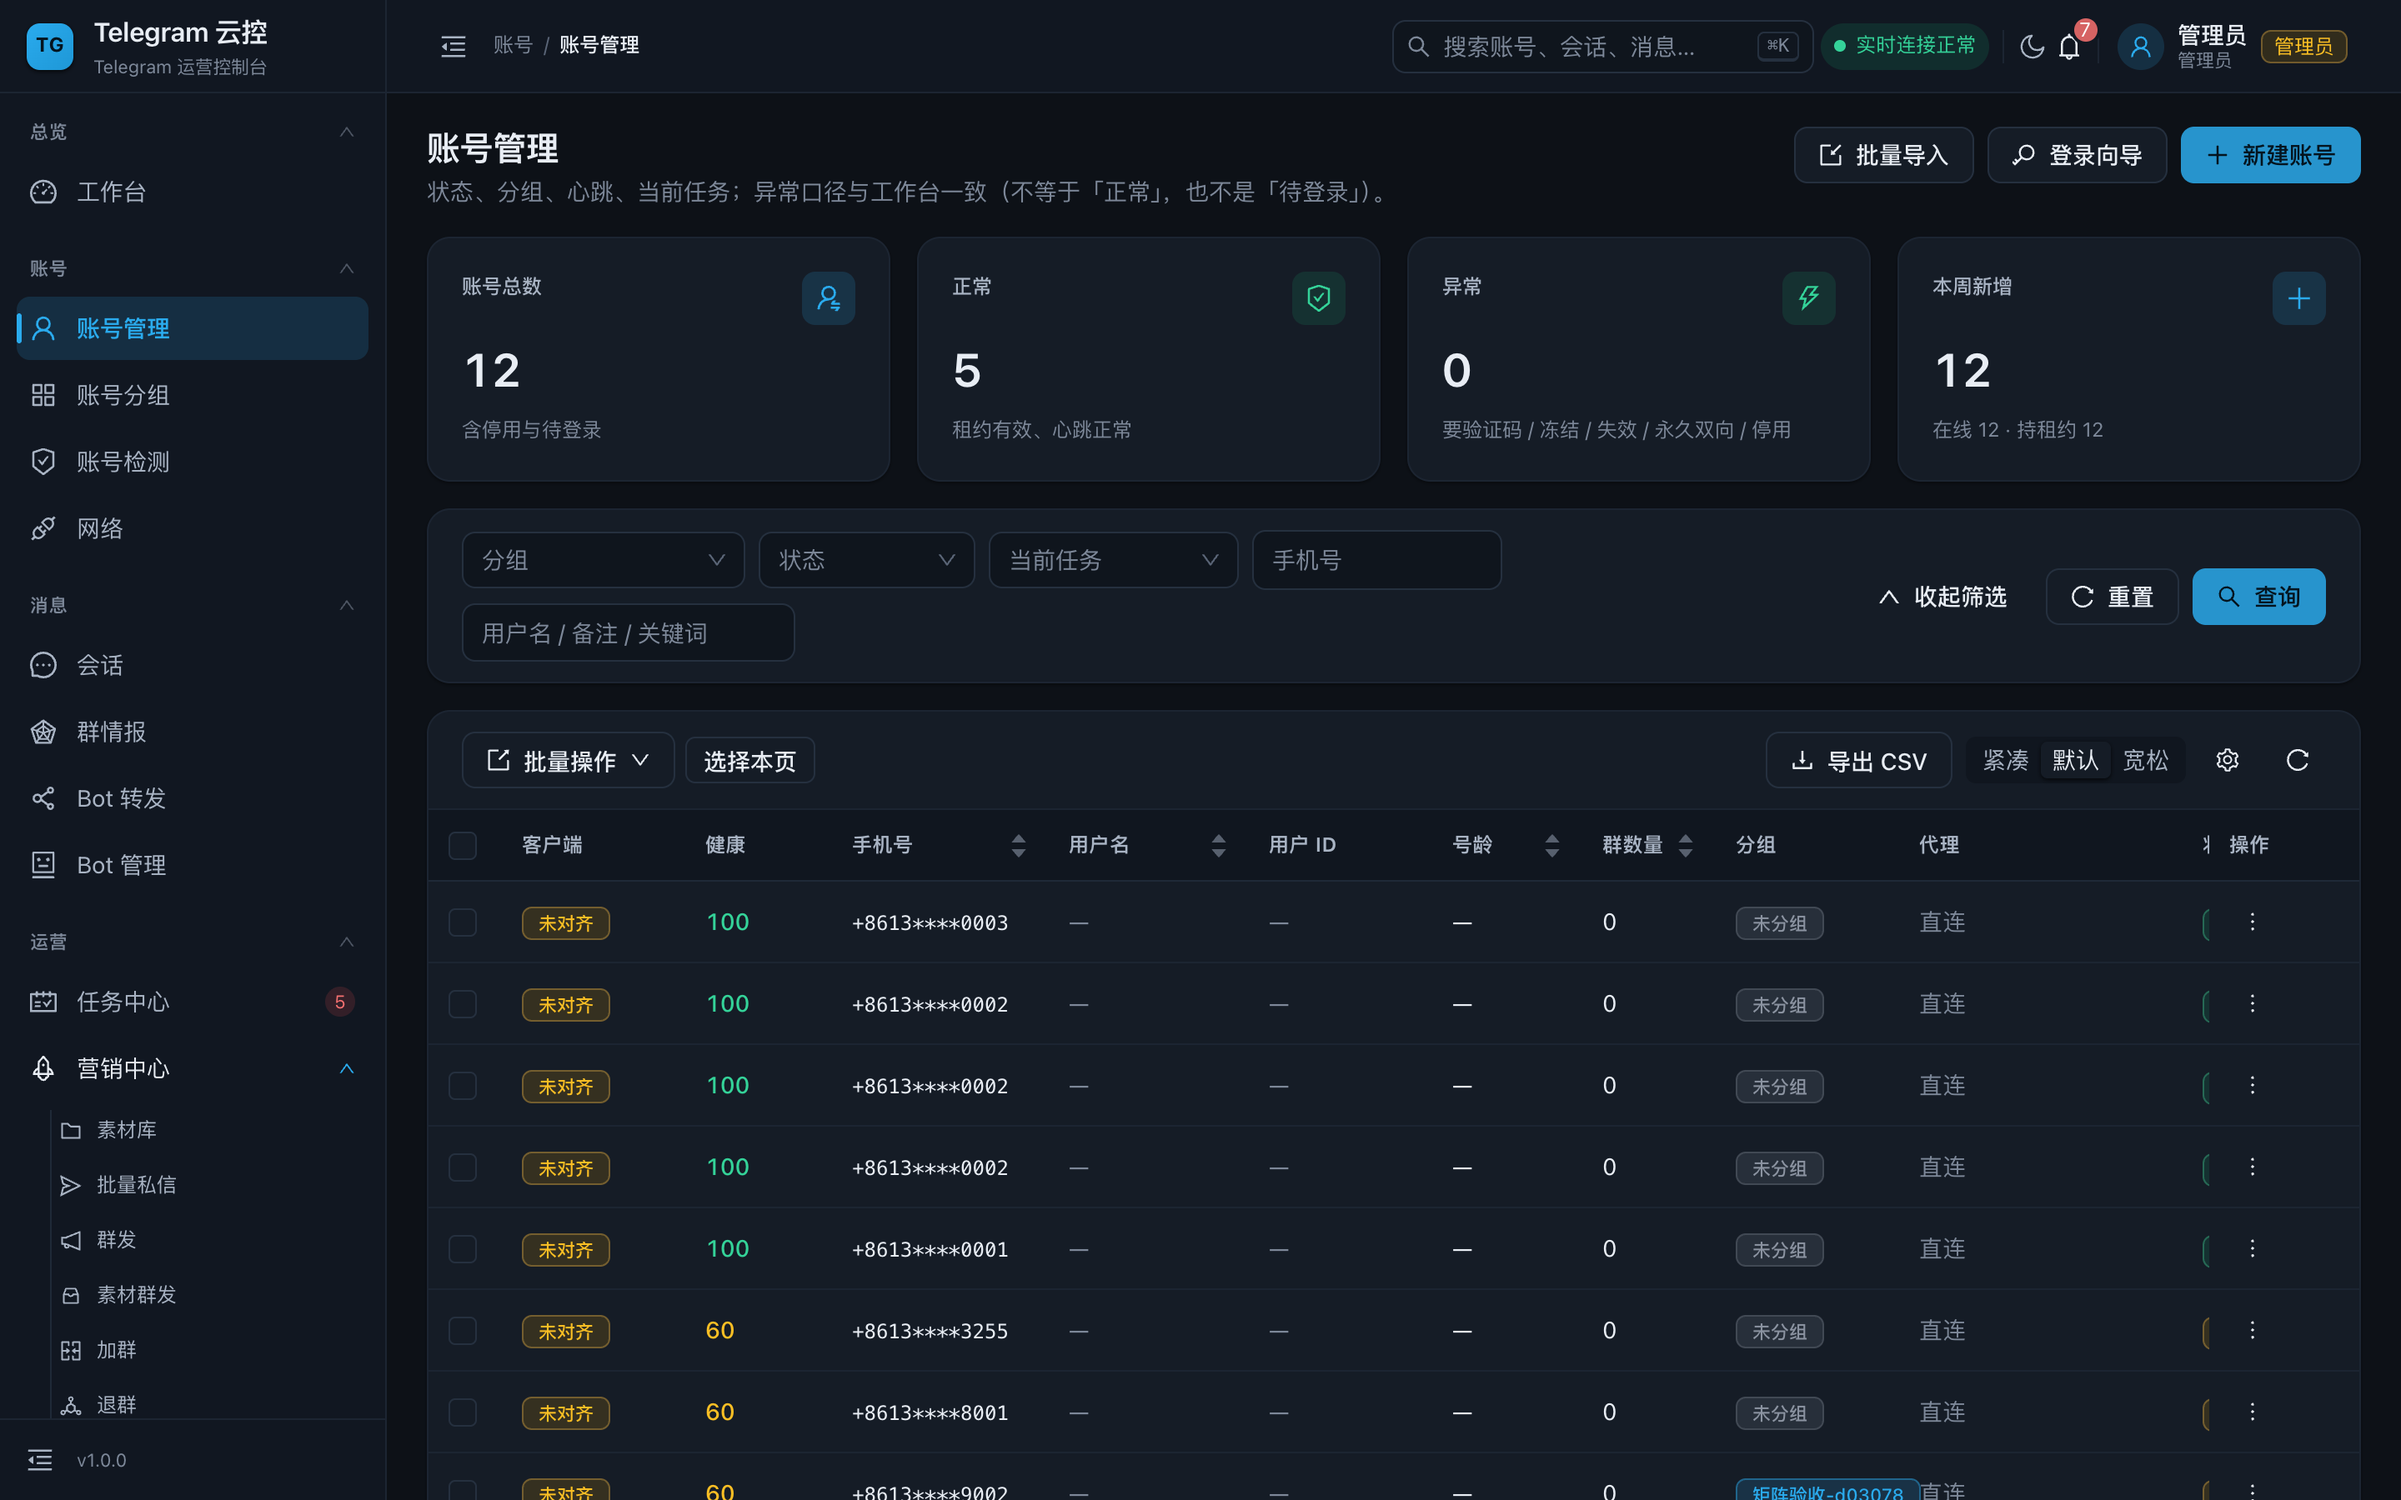
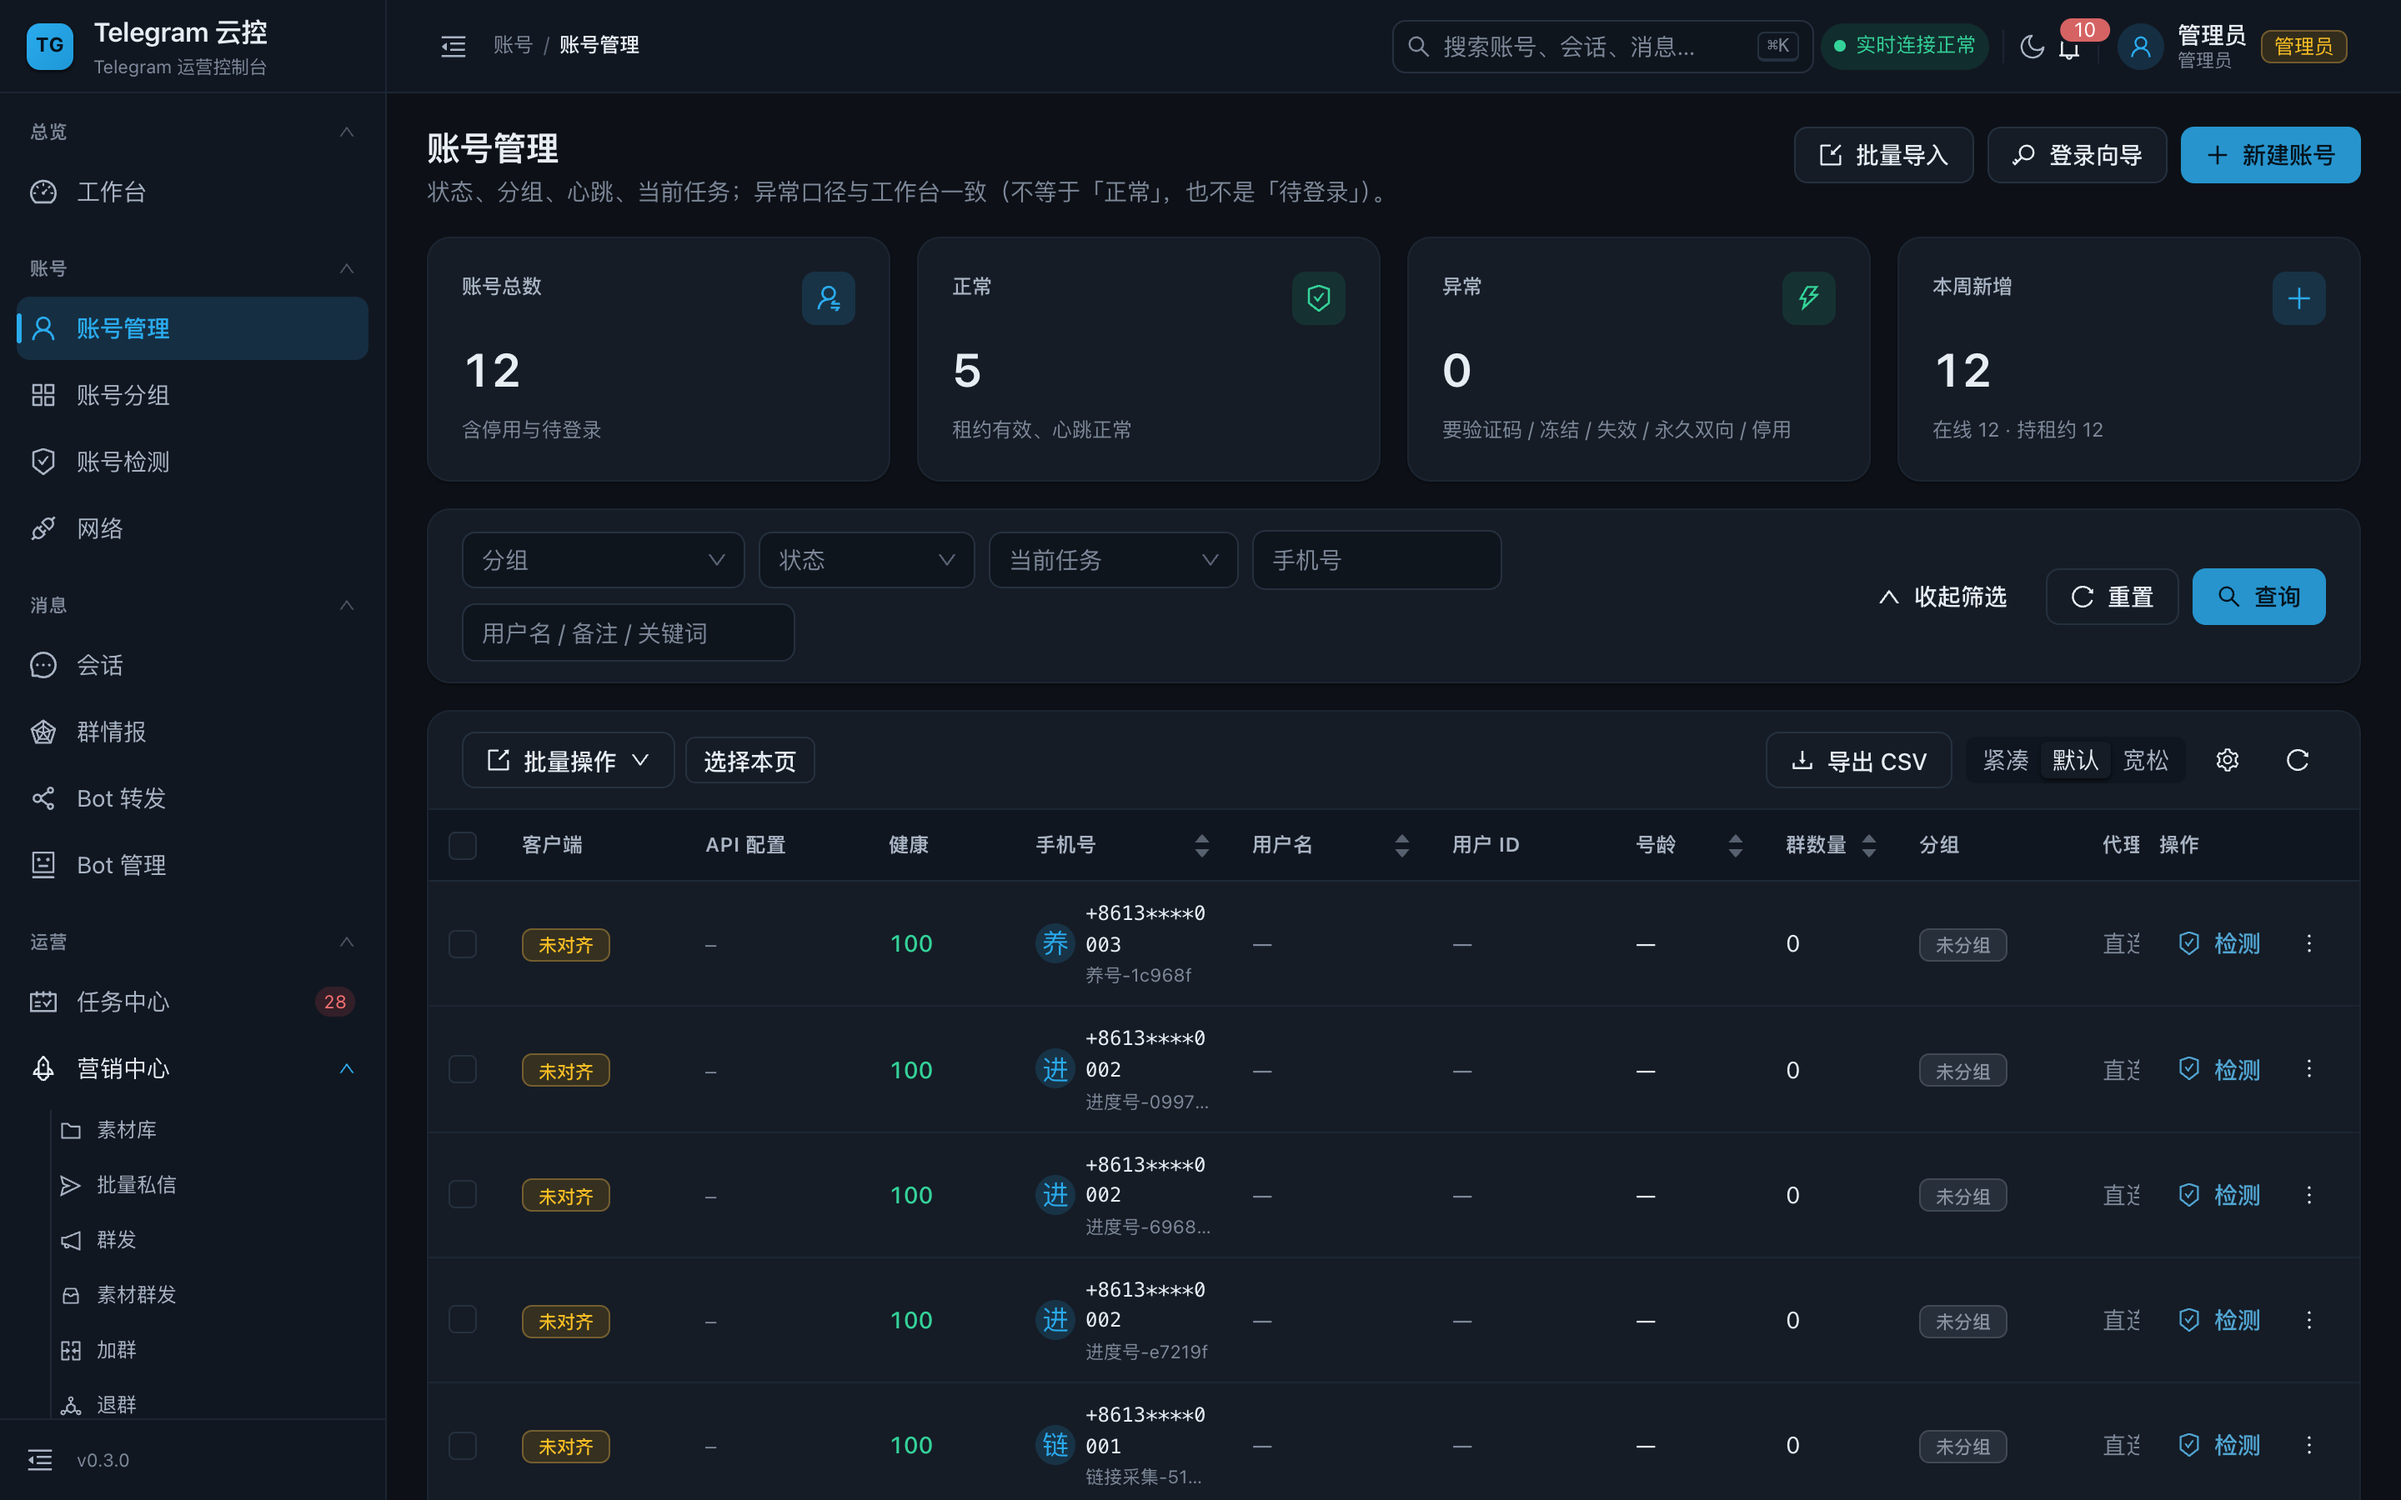
v0.3.19：账号管理补齐 API 配置列、行内检测与头像
后端：
- tg_accounts 新增 api_id（迁移 b1d5f80c7e42）+ 索引；AccountOut 出参
- 导入时写入 api_id：.session / StringSession 解析到的优先，否则用当前部署的 TELEGRAM_API_ID

前端：
- 新增「API 配置」列（API ID: xxx），多套凭据混用时便于排查限流来源
- 操作列加行内「检测」按钮（原来单号检测藏在「…」菜单里）
- 手机号列加圆形首字母头像 + 本号资料名称（原来只在 tooltip 里）
- 客户端列文案对齐为「官方 Android / 官方 iOS / 官方 Desktop」

对比结论：同类产品的账号列表信息我们已有 9 项（号龄/群数/状态/当前任务/分组/代理/健康分/
设备指纹/租约），这次补齐 API 配置与行内检测两项；状态口径与健康分、节流快照比它更细。

验证：出参含 api_id（接口实测）；前端 tsc 与 build 通过；账号页深浅截图重生成

版本：VERSION → 0.3.19

diff --git a/frontend/src/pages/Accounts.tsx b/frontend/src/pages/Accounts.tsx
@@ -1,6 +1,6 @@
 import { useEffect, useMemo, useState } from 'react';
 import { useSearchParams } from 'react-router-dom';
-import { Alert, Button, Checkbox, Dropdown, Form, Input, InputNumber, Modal, Select, Space, Tooltip, Typography } from 'antd';
+import { Alert, Avatar, Button, Checkbox, Dropdown, Form, Input, InputNumber, Modal, Select, Space, Tooltip, Typography } from 'antd';
 import type { ColumnsType } from 'antd/es/table';
 import {
   CloudSyncOutlined,
@@ -214,7 +214,19 @@ export default function Accounts() {
         fixed: 'left',
         render: (value: string, record) => (
           <Tooltip title={record.display_name ? `本号资料名称：${record.display_name}` : undefined}>
-            <span className="tg-mono">{value}</span>
+            <span className="tg-flex" style={{ gap: 'var(--tg-space-sm)', alignItems: 'center' }}>
+              <Avatar size={24} style={{ background: 'var(--tg-color-primary-bg)', color: 'var(--tg-color-primary)', flexShrink: 0 }}>
+                {(record.display_name || record.username || value || '?').trim().charAt(0).toUpperCase()}
+              </Avatar>
+              <span className="tg-stack" style={{ gap: 0, minWidth: 0 }}>
+                <span className="tg-mono">{value}</span>
+                {record.display_name ? (
+                  <span className="tg-muted tg-clamp-cell" style={{ fontSize: 'var(--tg-font-size-xs)' }}>
+                    {record.display_name}
+                  </span>
+                ) : null}
+              </span>
+            </span>
           </Tooltip>
         ),
       },
@@ -269,10 +281,14 @@ export default function Accounts() {
       {
         title: '操作',
         key: 'actions',
-        width: 90,
+        width: 132,
         fixed: 'right',
         render: (_: unknown, record) => (
-          <span onClick={(event) => event.stopPropagation()}>
+          <span onClick={(event) => event.stopPropagation()} className="tg-flex" style={{ gap: 'var(--tg-space-xs)' }}>
+            {/* 单号检测直接放行内：一眼可见、一点就走，不用进菜单找 */}
+            <Button size="small" type="link" icon={<SafetyCertificateOutlined />} onClick={() => void handleCheck(record)}>
+              检测
+            </Button>
             <Dropdown
               trigger={['click']}
               menu={{
@@ -436,9 +452,22 @@ export default function Accounts() {
     dataIndex: 'client_kind',
     width: 110,
     render: (value: string) => {
-      const label = value === 'android' ? 'Android' : value === 'ios' ? 'iOS' : value === 'tdesktop' ? 'Desktop' : '未对齐';
+      const label =
+        value === 'android' ? '官方 Android' : value === 'ios' ? '官方 iOS' : value === 'tdesktop' ? '官方 Desktop' : '未对齐';
       return <SoftTag tone={value ? 'neutral' : 'warning'} size="sm">{label}</SoftTag>;
     },
+  };
+
+  // API 配置：这个号是用哪套 api_id 登录的（多套凭据混用时便于排查限流来源）
+  const apiColumn: ColumnsType<AccountOut>[number] = {
+    title: 'API 配置',
+    dataIndex: 'api_id',
+    width: 110,
+    render: (value: number | null) => (
+      <span className="tg-mono" style={{ fontSize: 'var(--tg-font-size-xs)' }}>
+        {value ? `API ID: ${value}` : <span className="tg-muted">—</span>}
+      </span>
+    ),
   };
 
   const healthColumn: ColumnsType<AccountOut>[number] = {
@@ -459,7 +488,7 @@ export default function Accounts() {
     },
   };
 
-  const columns: ColumnsType<AccountOut> = [selectColumn, clientColumn, healthColumn, ...baseColumns];
+  const columns: ColumnsType<AccountOut> = [selectColumn, clientColumn, apiColumn, healthColumn, ...baseColumns];
 
   const bulkMenuItems = [
     { key: 'warmup', label: '官方养号（上线/翻会话）' },

diff --git a/frontend/src/api/types.ts b/frontend/src/api/types.ts
@@ -68,6 +68,8 @@ export interface AccountOut {
   phone_masked: string;
   username?: string | null;
   tg_user_id?: number | null;
+  /** 该号登录用的 api_id（多套凭据混用时便于排查） */
+  api_id?: number | null;
   display_name: string;
   age_days?: number | null;
   group_count: number;

diff --git a/backend/alembic/versions/b1d5f80c7e42_account_api_id.py b/backend/alembic/versions/b1d5f80c7e42_account_api_id.py
@@ -1,0 +1,28 @@
+"""tg_accounts 增加 api_id：记录该号通过哪套 API 凭据登录
+
+Revision ID: b1d5f80c7e42
+Revises: a8c4e7f31b95
+Create Date: 2026-03-30 10:00:00.000000
+"""
+
+from __future__ import annotations
+
+from typing import Sequence, Union
+
+import sqlalchemy as sa
+from alembic import op
+
+revision: str = "b1d5f80c7e42"
+down_revision: Union[str, None] = "a8c4e7f31b95"
+branch_labels: Union[str, Sequence[str], None] = None
+depends_on: Union[str, Sequence[str], None] = None
+
+
+def upgrade() -> None:
+    op.add_column("tg_accounts", sa.Column("api_id", sa.BigInteger(), nullable=True))
+    op.create_index(op.f("ix_tg_accounts_api_id"), "tg_accounts", ["api_id"], unique=False)
+
+
+def downgrade() -> None:
+    op.drop_index(op.f("ix_tg_accounts_api_id"), table_name="tg_accounts")
+    op.drop_column("tg_accounts", "api_id")

diff --git a/backend/app/models/account.py b/backend/app/models/account.py
@@ -74,6 +74,8 @@ class TgAccount(Base, TimestampMixin):
     phone_hash: Mapped[Optional[str]] = mapped_column(String(64), nullable=True, index=True)
     phone_masked: Mapped[str] = mapped_column(String(32), nullable=False, default="未知")
     tg_user_id: Mapped[Optional[int]] = mapped_column(BigInteger, nullable=True, index=True)
+    # 这个号是通过哪套 API 凭据登录的（多套凭据混用时便于排查限流来源）
+    api_id: Mapped[Optional[int]] = mapped_column(BigInteger, nullable=True, index=True)
     username: Mapped[Optional[str]] = mapped_column(String(64), nullable=True)
     display_name: Mapped[str] = mapped_column(String(128), nullable=False, default="")
     # 号龄（天），由首次登录时间推算

diff --git a/backend/app/services/account_import.py b/backend/app/services/account_import.py
@@ -509,6 +509,7 @@ async def import_accounts(
             phone_hash=security.short_hash(item.phone) if item.phone else None,
             phone_masked=mask_phone(item.phone) if item.phone else label[:32],
             tg_user_id=item.tg_user_id,
+            api_id=item.api_id or (settings.telegram_api_id or None),
             username=item.username,
             display_name=item.display_name or "",
             status=AccountStatus.healthy if item.session else AccountStatus.pending,

diff --git a/backend/app/schemas/account.py b/backend/app/schemas/account.py
@@ -36,6 +36,7 @@ class AccountOut(ORMModel):
     phone_masked: str
     username: Optional[str] = None
     tg_user_id: Optional[int] = None
+    api_id: Optional[int] = None
     display_name: str = ""
     age_days: Optional[int] = None
     group_count: int = 0

diff --git a/CHANGELOG.md b/CHANGELOG.md
@@ -7,6 +7,34 @@
 
 ---
 
+## v0.3.19 — 2026-03-30
+
+主题：**账号管理对齐同类产品的信息密度**——补 API 配置列、行内检测与头像。
+
+### 变更
+
+- **API 配置列**：`tg_accounts` 新增 `api_id`（迁移 `b1d5f80c7e42`），导入时写入（`.session` /
+  StringSession 里解析到的优先，否则用当前部署的 `TELEGRAM_API_ID`）；列表显示 `API ID: xxx`。
+  多套 API 凭据混用运营时，能一眼看出某个号是哪套凭据登录的，方便排查限流来源。
+- **行内「检测」按钮**：单号检测从「…」菜单里提到行内直接可见，一点就走；
+  原来那个菜单里的单号检测保留，另有同步 / 改分组 / 改资料 / 重登录 / 清租约 / 停用 / 删除。
+- **手机号列带头像**：圆形首字母头像 + 手机号 + 本号资料名称（原来资料名藏在 tooltip 里）。
+- **客户端列文案对齐**：`Android / iOS / Desktop` → `官方 Android / 官方 iOS / 官方 Desktop`，
+  与「身份取自官方发布版本表」的语义一致。
+
+### 与同类产品的差异（对比后保留的部分）
+
+同类产品的账号管理列（手机号、用户名/ID、格式、API 配置、号龄、群数、分组、代理、状态、
+当前任务、最后活跃、检测）我们原本已有 9 项（号龄、群数、状态、当前任务、分组、代理、健康分、
+设备指纹、租约），这次补齐 API 配置与行内检测；状态口径比它更细（要验证码 / 冻结 / 失效 /
+永久双向 / 停用 / 待登录），并多出健康分与节流快照。
+
+### 截图
+
+账号管理深浅两套截图已重生成。
+
+---
+
 ## v0.3.18 — 2026-03-30
 
 主题：**批量改资料支持「每个号不一样」**——候选池 + 按号分配 / 随机，而不是整批改成同一个。

diff --git a/README.md b/README.md
@@ -12,7 +12,7 @@
 <p>
   <a href="#许可证"><img src="https://img.shields.io/badge/license-待定-yellow.svg" alt="License"></a>
   <a href="https://github.com/cafinxnull/telegram-cloud-control/releases"><img src="https://img.shields.io/github/v/release/cafinxnull/telegram-cloud-control?label=release&color=2AABEE" alt="Release"></a>
-  <a href="https://github.com/cafinxnull/telegram-cloud-control/releases"><img src="https://img.shields.io/badge/version-0.3.18-2AABEE.svg" alt="Version"></a>
+  <a href="https://github.com/cafinxnull/telegram-cloud-control/releases"><img src="https://img.shields.io/badge/version-0.3.19-2AABEE.svg" alt="Version"></a>
   <a href="https://github.com/cafinxnull/telegram-cloud-control/releases"><img src="https://img.shields.io/badge/changelog-%E6%9B%B4%E6%96%B0%E8%AE%B0%E5%BD%95-blue.svg" alt="Changelog"></a>
   <a href="https://github.com/cafinxnull/telegram-cloud-control/stargazers"><img src="https://img.shields.io/github/stars/cafinxnull/telegram-cloud-control?label=stars&color=f5a623" alt="Stars"></a>
   <a href="https://github.com/cafinxnull/telegram-cloud-control/issues"><img src="https://img.shields.io/github/issues/cafinxnull/telegram-cloud-control?label=issues" alt="Issues"></a>
